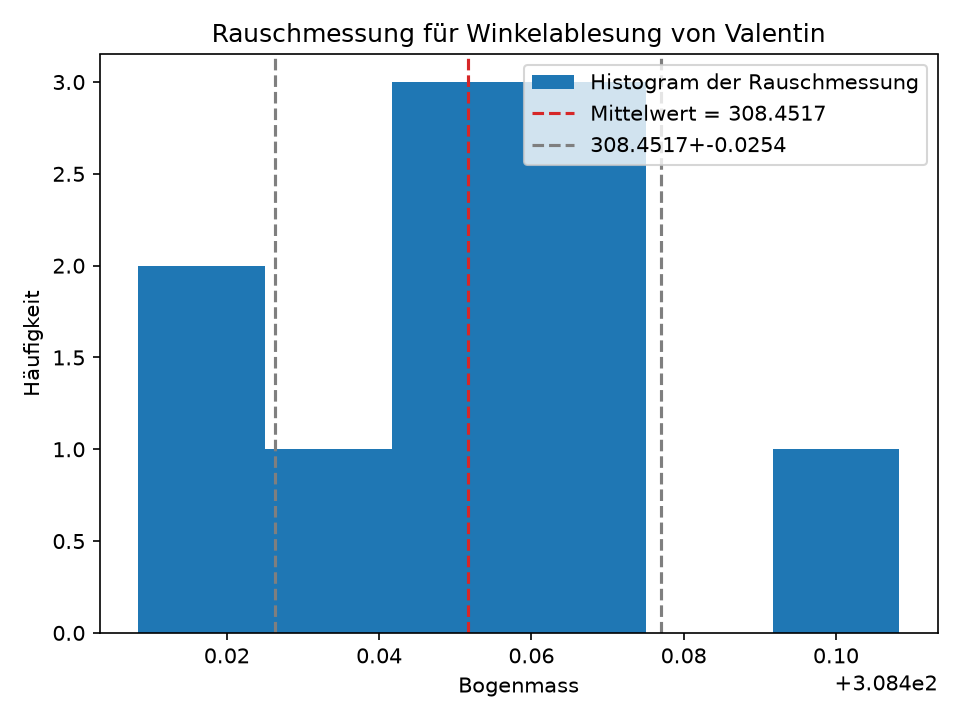
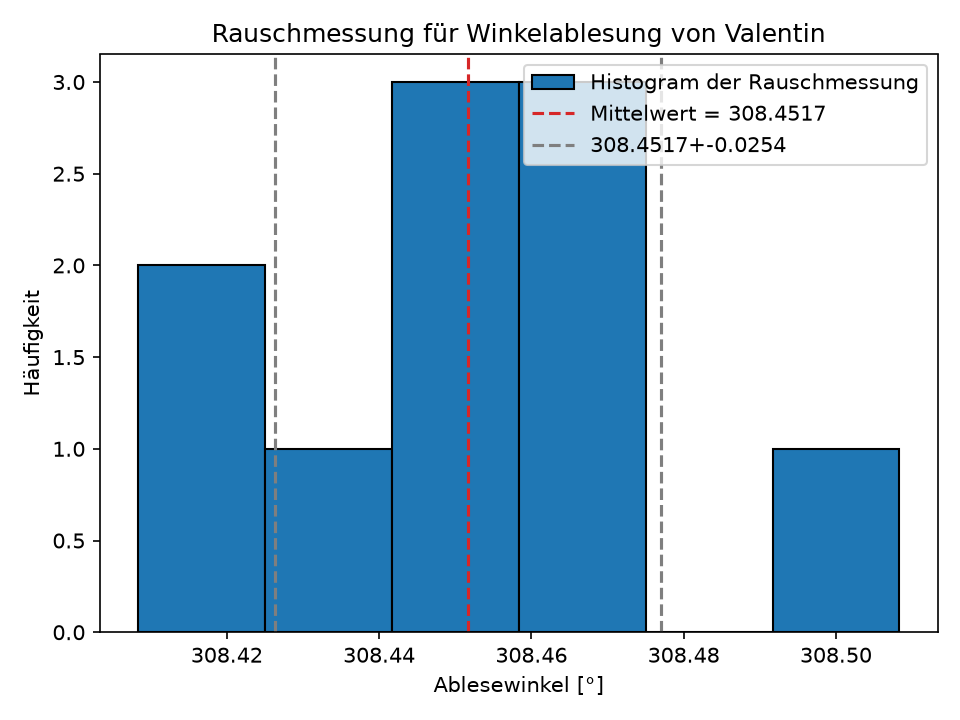
rauschen ändern

diff --git a/V5_Optik1/Leon/auswertung_leon.py b/V5_Optik1/Leon/auswertung_leon.py
@@ -46,13 +46,14 @@ def rauschmessung (DATA,dateiname ='Rauschmessung', Name ='Person'):
     bins = np.arange(DATA.min() - bin_width/2, DATA.max() + 1.5*bin_width, bin_width)
 
     fig, ax = plt.subplots()
-    ax.hist(DATA, label='Histogram der Rauschmessung', bins=bins)
+    ax.hist(DATA, label='Histogram der Rauschmessung', bins=bins, edgecolor='black', linewidth=1)
     ax.axvline(mean, color='tab:red',ls='--', label=f'Mittelwert = {mean:.4f}')
     ax.axvline(mean+std, color='tab:grey',ls='--', label=f'{mean:.4f}+-{std:.4f}')
     ax.axvline(mean-std, color='tab:grey',ls='--')
-    ax.set_xlabel('Bogenmass')
+    ax.set_xlabel('Ablesewinkel [°]')
     ax.set_ylabel('Häufigkeit')
     ax.set_title(f'Rauschmessung für Winkelablesung von {Name}')
+    ax.ticklabel_format(useOffset=False, style='plain', axis='x')
     ax.legend()
     fig.tight_layout()
     plt.savefig(OUTPUT/dateiname, dpi=150)
